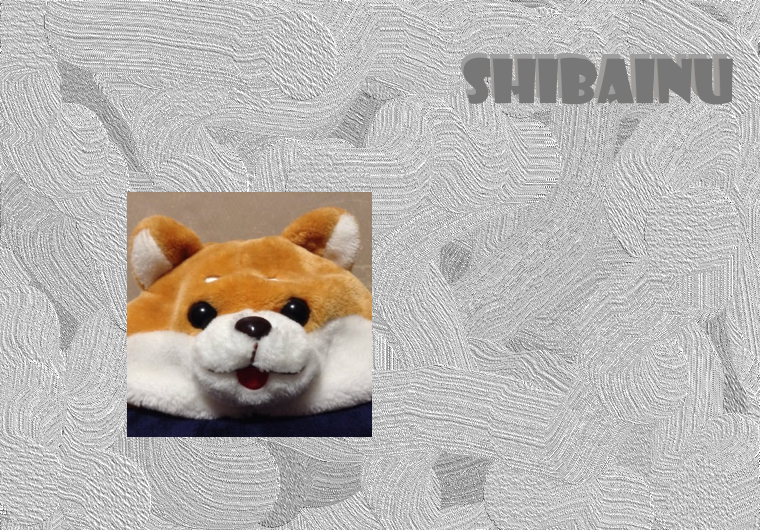
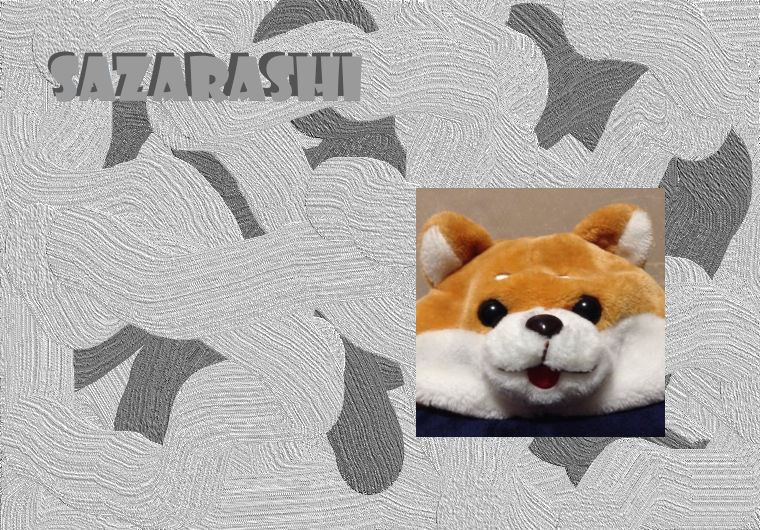
Add files via upload

diff --git a/YomomoGameNow.html b/YomomoGameNow.html
@@ -34,25 +34,129 @@
         </div>
 <!---------------------------------------------------------------->
         <div id="text">
-            <span id="texts1">
+            <div class="texts1">
                 <h3 class="letter">過去にプレイしたゲーム</h3>
                 <p>Minecraft&emsp;<a href="https://www.minecraft.net/ja-jp">公式サイト</a></p>
-            </span>
+                <p>Killing Floor 2&emsp;<a href="https://store.steampowered.com/app/232090/Killing_Floor_2/?l=japanese">Steam</a></p>
+            </div>
             <span class="border2">
             </span>
-            <span id="texts2">
+            <div class="texts2">
                 <h3 class="letter">配信中のゲーム</h3>
-                <p>Killing Floor 2&emsp;<a href="https://store.steampowered.com/app/232090/Killing_Floor_2/?l=japanese">Steam</a></p>
-                <p>Dead by Daylight&emsp;<a href="https://store.steampowered.com/app/381210/Dead_by_Daylight/?l=japanese">Steam</a>&emsp;<a href="https://www.epicgames.com/store/ja/p/dead-by-daylight">Epic</a></p>
-                <p>Apex Legends&emsp;<a href="https://store.steampowered.com/app/1172470/_/?l=japanese">Steam</a>&emsp;<a href="https://www.origin.com/jpn/ja-jp/store/apex/apex">Origin</a></p>
+                <p>Dead by Daylight&emsp;<a href="https://store.steampowered.com/app/381210/Dead_by_Daylight/?l=japanese">Steam</a>&thinsp;<a href="https://www.epicgames.com/store/ja/p/dead-by-daylight">Epic</a></p>
+                <p>Apex Legends&emsp;<a href="https://store.steampowered.com/app/1172470/_/?l=japanese">Steam</a>&thinsp;<a href="https://www.origin.com/jpn/ja-jp/store/apex/apex">Origin</a></p>
                 <p>7 Days to Die&emsp;<a href="https://store.steampowered.com/app/251570/7_Days_to_Die/?l=japanese">Steam</a></p>
-            </span>
-           <span class="border2">
-            </span>
-            <span id="texts3">
+                <p>ロゼと黄昏の古城&emsp;<a href="https://store.steampowered.com/app/548840/_/?l=japanese">Steam</a></p>
+                <p>Terraria&emsp;<a href="https://store.steampowered.com/app/105600/Terraria/?l=japanese">Steam</a></p>
+            </div>
+            <div class="texts3">
                 <h3 class="letter">これからやりたいゲーム</h3>
-                <p>考え中</p>
+                <p>バイオハザードシリーズ</p>
+                <p>Doom</p>
+                <p>Left 4 Dead</p>
+                <p>Metroシリーズ</p>
+                <p>Outlast両作</p>
+                <p>Slime Rancher</p>
+                <p>深,夜廻り</p>
+            </div>
+            <span class="border2">
             </span>
+            <div class="texts4">
+            <h3 class="letter">今持っているゲーム</h3>
+            <p>サムライスピリッツ ネオジオコレクション</p>
+                <p>observer_</p>
+                <p>3 out of 10, EP 1: "Welcome To Shovelworks"</p>
+                <p>3 out of 10, EP 2: "Welcome To Shovelworks"</p>
+                <p>3 out of 10, EP 3: "Welcome To Shovelworks"</p>
+                <p>3 out of 10, EP 4: "Welcome To Shovelworks"</p>
+                <p>3 out of 10, EP 5: "Welcome To Shovelworks"</p>
+                <p>3 out of 10: Season Two</p><p>Absolute Drift</p>
+                <p>ABZU</p>
+                <p>AER</p>
+                <p>Alan Wake</p>
+                <p>Alan Wake's American Nightmare</p>
+                <p>Alien: Isolation</p>
+                <p>Amnesia:The Dark Descent</p>
+                <p>Amnesia: A Machine for Pigs</p>
+                <p>Among Us</p>
+                <p>Anodyne 2:Return to Dust</p><p>APE OUT</p>
+                <p>ARK: Survival Evolved</p>
+                <p>Assassin's Creed Syndicate</p>
+                <p>Aztez</p>
+                <p>Bad North</p>
+                <p>Batman Arkham Asylum Game of the Year Edition</p>
+                <p>Batman Arkham City Game of the Year Edition</p>
+                <p>Batman Arkham Knight</p>
+                <p>Black Widow: Recharged</p>
+                <p>Blair Witch</p>
+                <p>Borderlands 2</p>
+                <p>BORDERLANDS: THE PRE-SEQUEL</p>
+                <p>Brothers: a Tale of Two Sons</p>
+                <p>Carcassonne</p>
+                <p>Cave Story+ 洞窟物語</p>
+                <p>Celeste</p>
+                <p>Centipede: Recharged</p>
+                <p>Cities: Skylines</p>
+                <p>City of Brass</p>
+                <p>Close To The Sun</p>
+                <p>Conarium</p>
+                <p>Control</p>
+                <p>Costume Quest</p>
+                <p>Costume Quest 2</p>
+                <p>Crashlands</p>
+                <p>Creature in the Well</p>
+                <p>Crying Suns</p>
+                <p>Dandara: Trials of Fear Edition</p>
+                <p>Darksiders II Deathinitive Edition</p>
+                <p>Darksiders warmastered edition</p>
+                <p>DARQ: Complete Edition</p>
+                <p>Dauntless</p>
+                <p>Death Coming</p>
+                <p>Defense Grid: The Awakening</p>
+                <p>DEMON'S TILT</p>
+                <p>Deponia: The Complete Journey</p>
+                <p>Drawful 2</p>
+                <p>Dungeons 3</p>
+                <p>Enter the Gungeon</p>
+                <p>Europa Universalis IV</p>
+                <p>Everything</p>
+                <p>Faeria</p>
+                <p>Farming Simulator 19</p>
+                <p>Faster Than Light</p>
+                <p>Fez</p>
+                <p>Figment</p>
+                <p>For Honor</p>
+                <p>For The King</p>
+                <p>Frostpunk</p>
+                <p>Galactic Civilizations III</p>
+                <p>Ghostbusters:The Video Game Remastered</p>
+                <p>GNOG</p>
+                <p>God's Trigger</p>
+                <p>Godfall</p>
+                <p>Gods Will Fall</p>
+                <p>GoNNER</p>
+                <p>Grand Theft Auto V</p>
+                <p>Guild of Dungeoneering</p>
+                <p>Halcyon 6: Starbase Commander</p>
+                <p>Hand of Fate 2</p>
+                <p>Hell is Other Demons</p>
+                <p>HITMAN - Game of the Year Edition</p>
+                <p>Horace</p>
+                <p>Horizon Chase Turbo</p>
+                <p>Hyper Light Drifter</p>
+                <p>Idle Champions of the Forgotten Realms</p>
+                <p>InnerSpace</p>
+                <p>Inside</p>
+                <p>Into The Breach</p>
+                <p>Jotun: Valhalla Edition</p>
+                <p>Jurassic World Evolution</p>
+                <p>Just Cause 4 Reloaded</p>
+                <p>Ken Follett's The Pillars of the Earth</p>
+                <p>KID A MNESIA EXHIBITION</p>
+                <p>Killing Floor 2</p>
+                <p>Kingdom Come: Deliverance</p>
+                <p>多すぎてちょっとどれ書いたか分かんなくなっちゃったからちょっと待って(;ﾟロﾟ)</p>
+            </div>            
         </div>
 <!---------------------------------------------------------------->
         <footer>

diff --git a/YomomoGameNow.css b/YomomoGameNow.css
@@ -23,7 +23,7 @@ a.right:hover{ color:#000000; background-color: #FF5F17; border-radius: 0 10px 1
 a.right:visited{ color:#000000; }
 
 /*白地の背景*/
-#BackColor{ width: 800px; height: 1200px; background-color: white; margin: auto; border-radius:10px;}
+#BackColor{ width: 800px; height: 1400px; background-color: white; margin: auto; border-radius:10px;}
 
 /*スライドショーの設定*/
 #illustrate{ width: 760px; height: 530px; margin: 50px 20px 20px 20px; border-top: 20px solid white;}
@@ -41,22 +41,23 @@ nav ul { width: 760px; display: flex; margin: 0 auto; }
 nav ul li{ width: 125px; text-align: center; padding-top: 8px; padding-bottom: 8px; color: #b32400;}
 
 /*見出し記事の設定*/
-#text{ width: 760px; height: auto; font-size: 14px; width: 760px; margin: 55px 20px 0 20px; color: orange;}
-#texts1 { display: inline-block; width: 232px; height: 300px; margin: 0 9px 0 0; vertical-align: top;}
-#texts2 { display: inline-block; width: 232px; height: 300px; margin: 0 9px 0 9px; vertical-align: top;}
-#texts3 { display: inline-block; width: 232px; height: 300px; margin: 0 0 0 9px; vertical-align: top;}
+#text{ width: 760px; height: auto; font-size: 14px; width: 760px; margin: 55px 20px 0 20px; color: coral;}
+div.texts1 { display: inline-block; width: 365px; height: 300px; margin: 0 9px 0 0; vertical-align: top;font-weight: 900;}
+div.texts2 { display: inline-block; width: 365px; height: 300px; margin: 0 0 0 9px; vertical-align: top; font-weight: 900;}
+div.texts3 { display: inline-block; width: 365px; height: 300px; margin: 0 0 0 9px; vertical-align: top; font-weight: 900;}
+div.texts4 { display: inline-block; width: 365px; height: 300px; margin: 0 0 0 9px; vertical-align: top; font-weight: 900; overflow-y: scroll;}
 
 /*見出しの文字の設定*/
 h3.letter { font-size: 20px; letter-spacing: -2px; color: #000000;
-padding-bottom: 16px; color: coral;}
-p{ font-size: 16px; }
+padding-bottom: 16px; color: #D86C0D;}
+p{font-size: 16px; }
 
 /*縦の仕切り線の設定*/
 span.border{ display: inline-block; width: 2px; height: 45px; border-right: 2px solid #b32400;}
-span.border2{ display: inline-block; width: 2px; height: 350px; border-right: 2px dotted #b32400;}
+span.border2{ display: inline-block; height: 300px; border-right: 3px dotted #b32400;}
 
 /*フッターの設定*/
-footer { color: #000000; text-align: center;  padding-bottom: 32px;padding-top: 130px;}
+footer { color: #000000; text-align: center; padding-bottom: 55px; padding-top: 60px;}
 
 
 

diff --git a/YomomoPage.css b/YomomoPage.css
@@ -37,19 +37,19 @@ nav ul { width: 760px; display: flex; margin: 0 auto; }
 nav ul li{ width: 125px; text-align: center; padding-top: 8px; padding-bottom: 8px;color:#b32400;}
 
 /*見出し記事の設定*/
-#text{ width: 760px; height: auto; font-size: 14px; width: 760px; margin: 55px 20px 0 20px; color: orange;font-weight: 900;}
+#text{ width: 760px; height: auto; font-size: 14px; width: 760px; margin: 55px 20px 0 20px; color: coral;font-weight: 900;}
 #texts1 { display: inline-block; width: 232px; height: 300px; margin: 0 9px 0 0; vertical-align: top;}
 #texts2 { display: inline-block; width: 232px; height: 300px; margin: 0 9px 0 9px; vertical-align: top;}
 #texts3 { display: inline-block; width: 232px; height: 300px; margin: 0 0 0 9px; vertical-align: top;}
 
 /*見出しの文字の設定*/
 h3.letter { font-size: 20px; letter-spacing: -2px; color: #000000;
-padding-bottom: 16px; color: coral;}
+padding-bottom: 16px; color: #D86C0D;}
 p{ font-size: 16px;}
 
 /*縦の仕切り線の設定*/
 span.border{ display: inline-block; width: 2px; height: 45px; border-right: 2px solid #b32400;}
-span.border2{ display: inline-block; width: 2px; height: 350px; border-right: 2px dotted #b32400;}
+span.border2{ display: inline-block; width: 2px; height: 400px; border-right: 2px dotted #b32400;}
 
 /*フッターの設定*/
-footer { color: #000000; text-align: center;  padding-bottom: 32px;padding-top: 130px;}
+footer { color: #000000; text-align: center; padding-bottom: 55px; padding-top: 60px;}

diff --git a/YomomoPage.html b/YomomoPage.html
@@ -41,13 +41,13 @@
             </span>
             <span id="texts2">
                 <h3 class="letter">好きなゲーム</h3>
-                <p>考え中</p>
+                <p>世界観の凄いゲームは感動しながらプレイしています。特に好き嫌いはなく、リズムやアクション、ホラー、パズル、シミュレーション等々幅広くプレイしています！プレイしたくない程ではないですが、ノベルゲームとリアル重視なレースゲームは飽きがちでした。おすすめのゲームなどがあれば教えてください！動画にしやすそうだと思えば配信もするかもです。</p>
             </span>
            <span class="border2">
             </span>
             <span id="texts3">
                 <h3 class="letter">趣味</h3>
-                <p>考え中</p>
+                <p>ゲームは勿論、漫画や小説を読んだり、お絵かきも多少ですが好きです！知らない場所を散歩するのも結構好きだったり？？おいしいお店を探したりするのも好きです。</p>
             </span>
         </div>
 <!---------------------------------------------------------------->

diff --git a/MackyPage.css b/MackyPage.css
@@ -8,7 +8,7 @@ img { vertical-align: middle }
 
 /*基本設定*/
 html { font-family: serif; }
-body{background-image: url(img/MackyBackImg.png)}
+body{background-image: url(img/MackyBackImg.jpg)}
 a:link{ color:#003300; }
 a:active{ color:#FFFFFF; }
 a:hover{ color:#000000; background-color: #00AA00;}
@@ -37,7 +37,7 @@ nav ul { width: 760px; display: flex; margin: 0 auto; }
 nav ul li{ width: 125px; text-align: center; padding-top: 8px; padding-bottom: 8px; color: #003300;}
 
 /*見出し記事の設定*/
-#text{ width: 760px; height: auto; font-size: 14px; width: 760px; margin: 55px 20px 0 20px; color: #32CD32; font-weight: 900;}
+#text{ width: 760px; height: auto; font-size: 14px; width: 760px; margin: 55px 20px 0 20px; color: #0EB607; font-weight: 900;}
 #texts1 { display: inline-block; width: 232px; height: 300px; margin: 0 9px 0 0; vertical-align: top;}
 #texts2 { display: inline-block; width: 232px; height: 300px; margin: 0 9px 0 9px; vertical-align: top;}
 #texts3 { display: inline-block; width: 232px; height: 300px; margin: 0 0 0 9px; vertical-align: top;}

diff --git a/MackyGameNow.css b/MackyGameNow.css
@@ -8,7 +8,7 @@ img { vertical-align: middle }
 
 /*基本設定*/
 html { font-family: serif; }
-body{background-image: url(img/MackyBackImg.png)}
+body{background-image: url(img/MackyBackImg.jpg)}
 a:link{ color:#003300; }
 a:active{ color:#FFFFFF; }
 a:hover{ color:#000000; background-color: #00AA00;}
@@ -41,7 +41,7 @@ nav ul { width: 760px; display: flex; margin: 0 auto; }
 nav ul li{ width: 125px; text-align: center; padding-top: 8px; padding-bottom: 8px; color: #003300;}
 
 /*見出し記事の設定*/
-#text{ width: 760px; height: auto; font-size: 14px; width: 760px; margin: 55px 20px 0 20px; color: #32CD32;}
+#text{ width: 760px; height: auto; font-size: 14px; width: 760px; margin: 55px 20px 0 20px; color: #0EB607;}
 #texts1 { display: inline-block; width: 232px; height: 300px; margin: 0 9px 0 0; vertical-align: top;}
 #texts2 { display: inline-block; width: 232px; height: 300px; margin: 0 9px 0 9px; vertical-align: top;}
 #texts3 { display: inline-block; width: 232px; height: 300px; margin: 0 0 0 9px; vertical-align: top;}

diff --git a/SimultaneousViewing.html b/SimultaneousViewing.html
@@ -21,13 +21,13 @@
                     <span class="border"></span>
                     <a href="YomomoPage.html"><li>Yomomo_mochi</li></a>
                     <span class="border"></span>
-                    <a href="#"><li>Shibainu</li></a>
-                    <span class="border"></span>
-                    <a href="CCG.html"><li>メインページ</li></a>
+                    <a href="SazaeashiPage.html"><li>Shibainu</li></a>
                     <span class="border"></span>
                     <a href="#"><li>comingsoon</li></a>
                     <span class="border"></span>
-                    <a class="right" href="#"><li>comingsoon</li></a>
+                    <a href="#"><li>comingsoon</li></a>
+                    <span class="border"></span>
+                    <a class="right" href="CCG.html"><li>メインページ</li></a>
                 </ul>
             </nav>
         </div>
